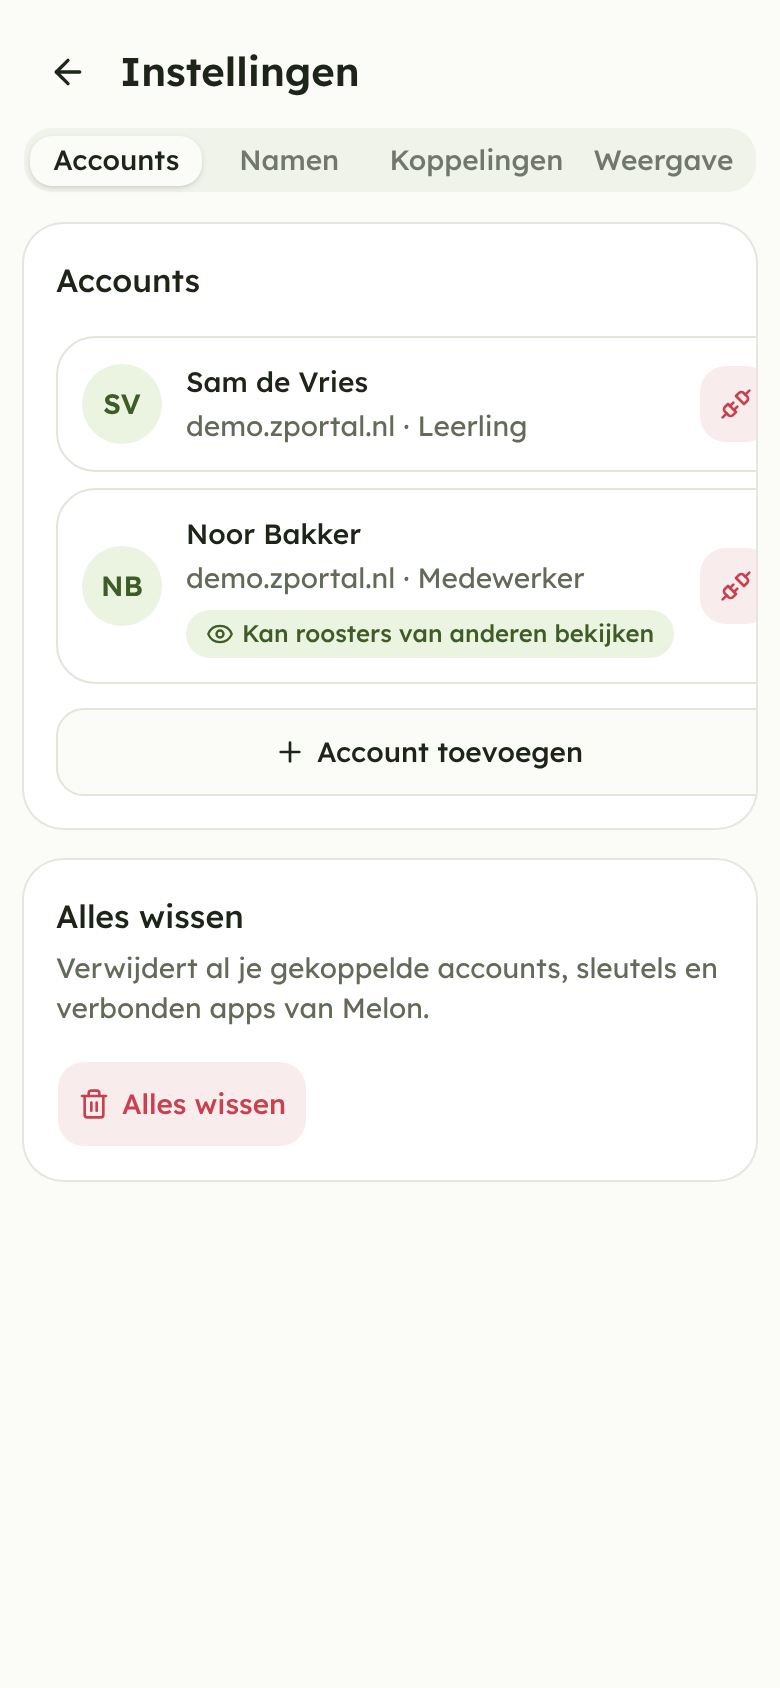
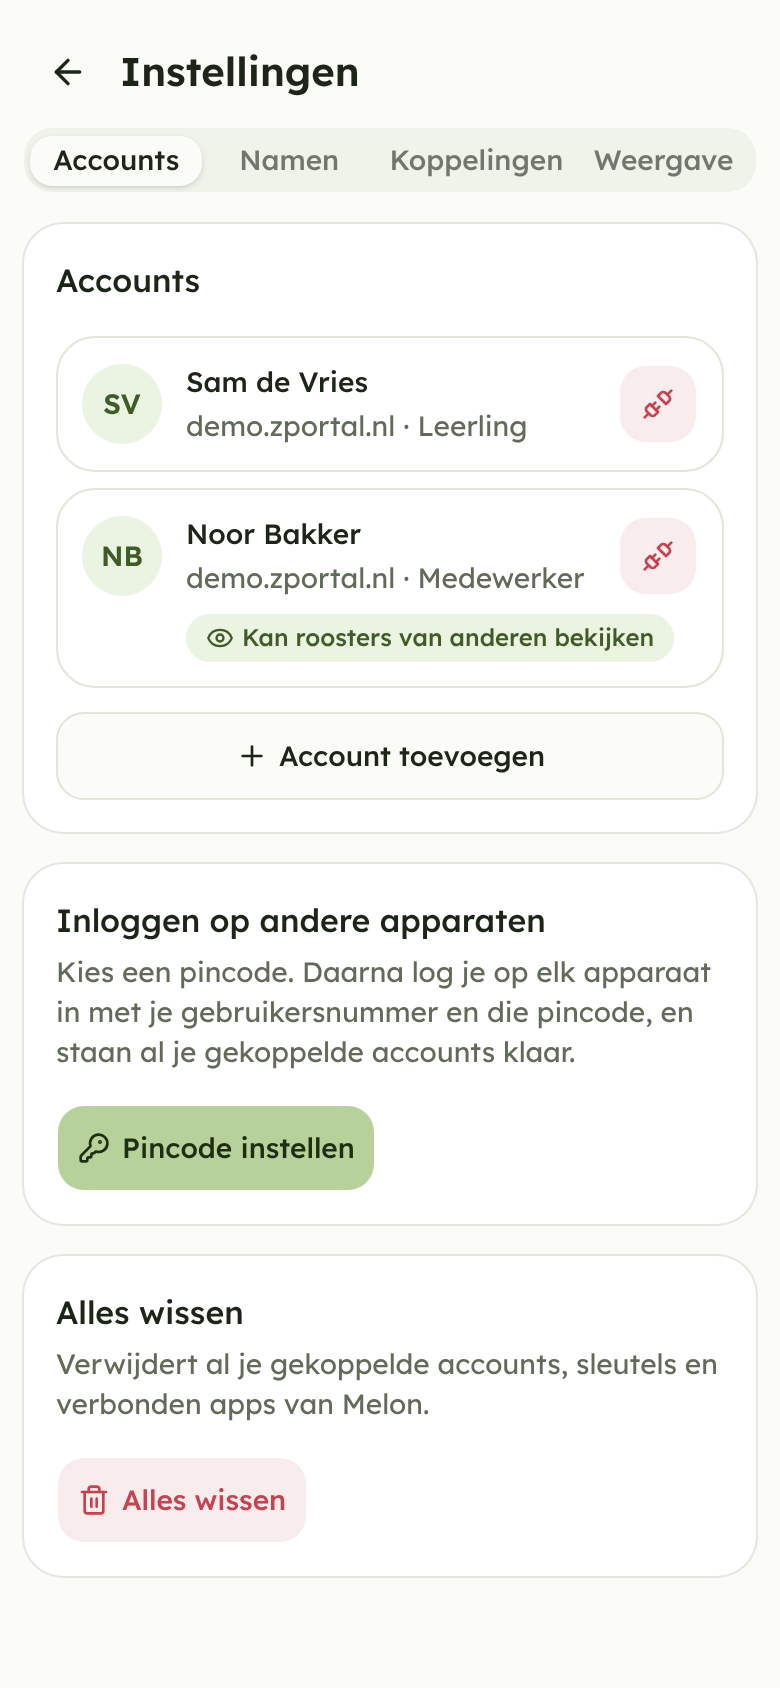
Fix account rows overflowing their card, screenshot the sign-in flow
The 'can view others' chip could not shrink, which pushed every row in
the accounts list (and the unlink button with it) past the card's edge
on phones. The chip now sits on its own line and the list may shrink.

The screenshot job now also sets a PIN, signs out and signs back in,
capturing each step, so CI exercises the whole flow in a browser.

Claude-Session: https://claude.ai/code/session_01TxVacZiHq7TDUZ54JeLxoN

diff --git a/web/src/pages/Settings.tsx b/web/src/pages/Settings.tsx
@@ -30,7 +30,7 @@ function Section({ title, text, action, children }: { title: string; text?: stri
         </div>
         {action}
       </CardHeader>
-      <CardContent className="grid gap-3">{children}</CardContent>
+      <CardContent className="grid grid-cols-1 gap-3">{children}</CardContent>
     </Card>
   )
 }
@@ -97,27 +97,27 @@ function AccountsTab() {
   return (
     <>
       <Section title={t('accounts')}>
-        <ul className="grid gap-2">
+        <ul className="grid grid-cols-1 gap-2">
           {accounts.map((a) => (
-            <li key={a.id} className="flex items-center gap-3 rounded-xl border p-3">
+            <li key={a.id} className="grid grid-cols-[auto_minmax(0,1fr)_auto] items-center gap-x-3 gap-y-2 rounded-xl border p-3">
               <Avatar name={a.name} className="size-10 text-sm" />
-              <div className="grid min-w-0 flex-1 gap-0.5">
+              <div className="grid min-w-0 gap-0.5">
                 <span className="truncate font-medium">{a.name}</span>
                 <span className="truncate text-sm text-muted-foreground">
                   {a.school}.zportal.nl · {t(a.role)}
                 </span>
-                {a.canViewOthers && (
-                  <Chip tone="honeydew" className="mt-1 w-fit">
-                    <Eye />
-                    {t('canViewOthers')}
-                  </Chip>
-                )}
               </div>
-              <Button variant="destructive" className="h-10 shrink-0" onClick={() => setUnlinking(a)}>
+              <Button variant="destructive" className="h-10 max-sm:w-10 max-sm:px-0" onClick={() => setUnlinking(a)}>
                 <Unplug />
-                <span className="hidden sm:inline">{t('unlink')}</span>
-                <span className="sr-only sm:hidden">{t('unlink')}</span>
+                <span className="max-sm:sr-only">{t('unlink')}</span>
               </Button>
+              {/* Own row: next to the button it does not fit on a phone. */}
+              {a.canViewOthers && (
+                <Chip tone="honeydew" className="col-span-2 col-start-2 w-fit max-w-full shrink">
+                  <Eye className="shrink-0" />
+                  <span className="truncate">{t('canViewOthers')}</span>
+                </Chip>
+              )}
             </li>
           ))}
         </ul>
